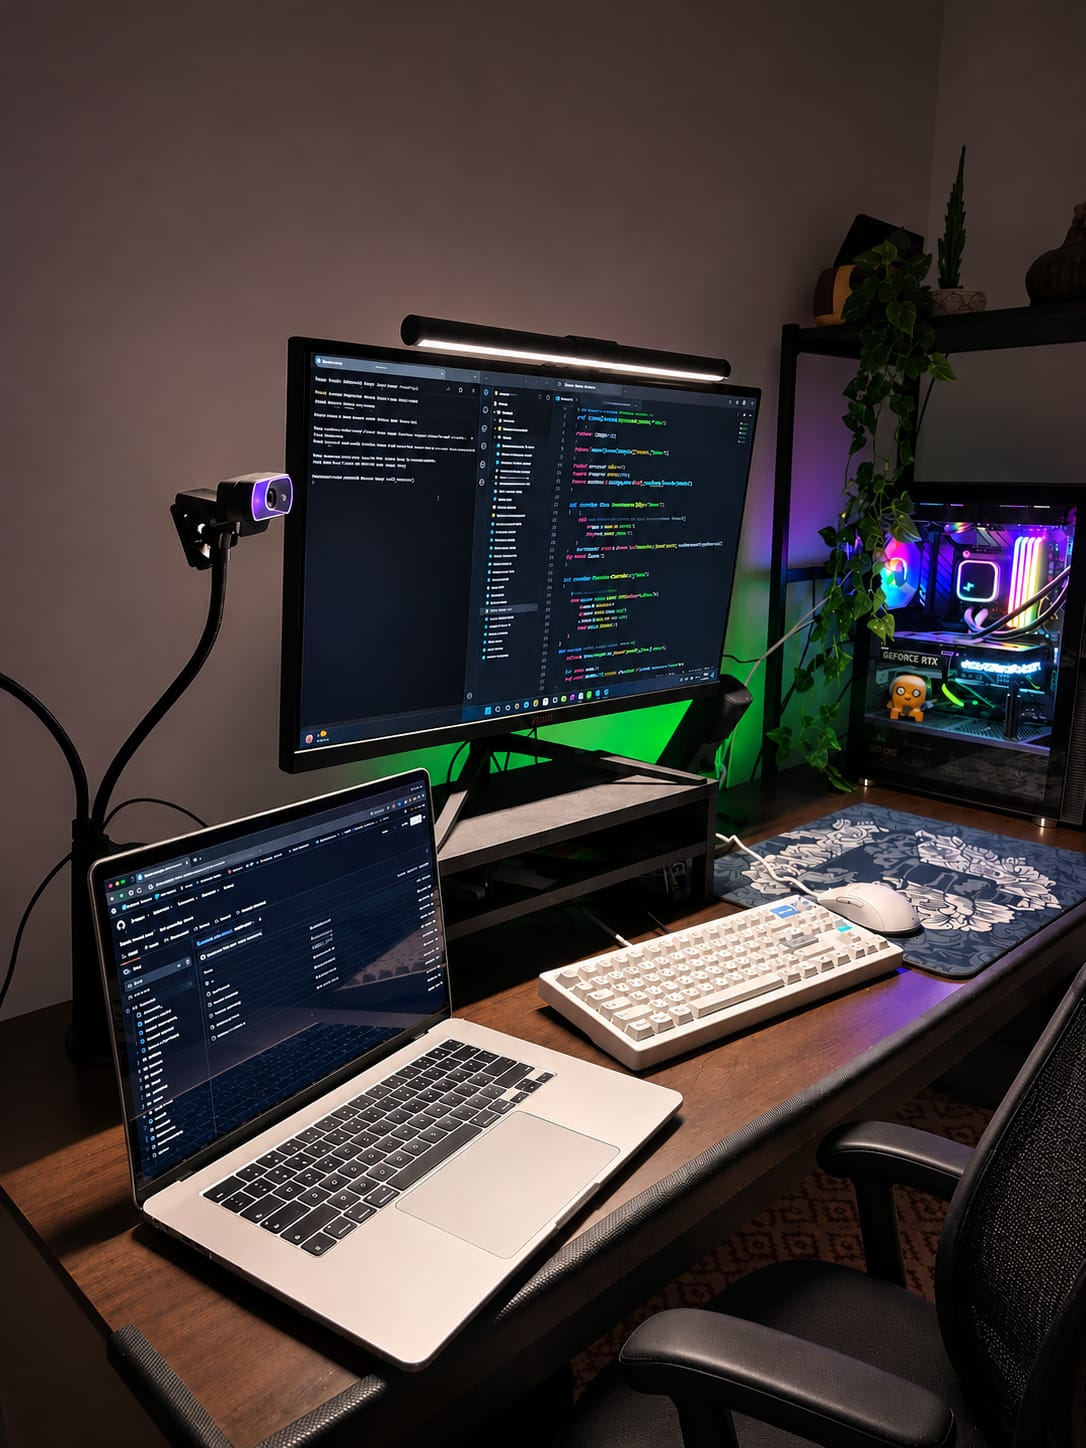
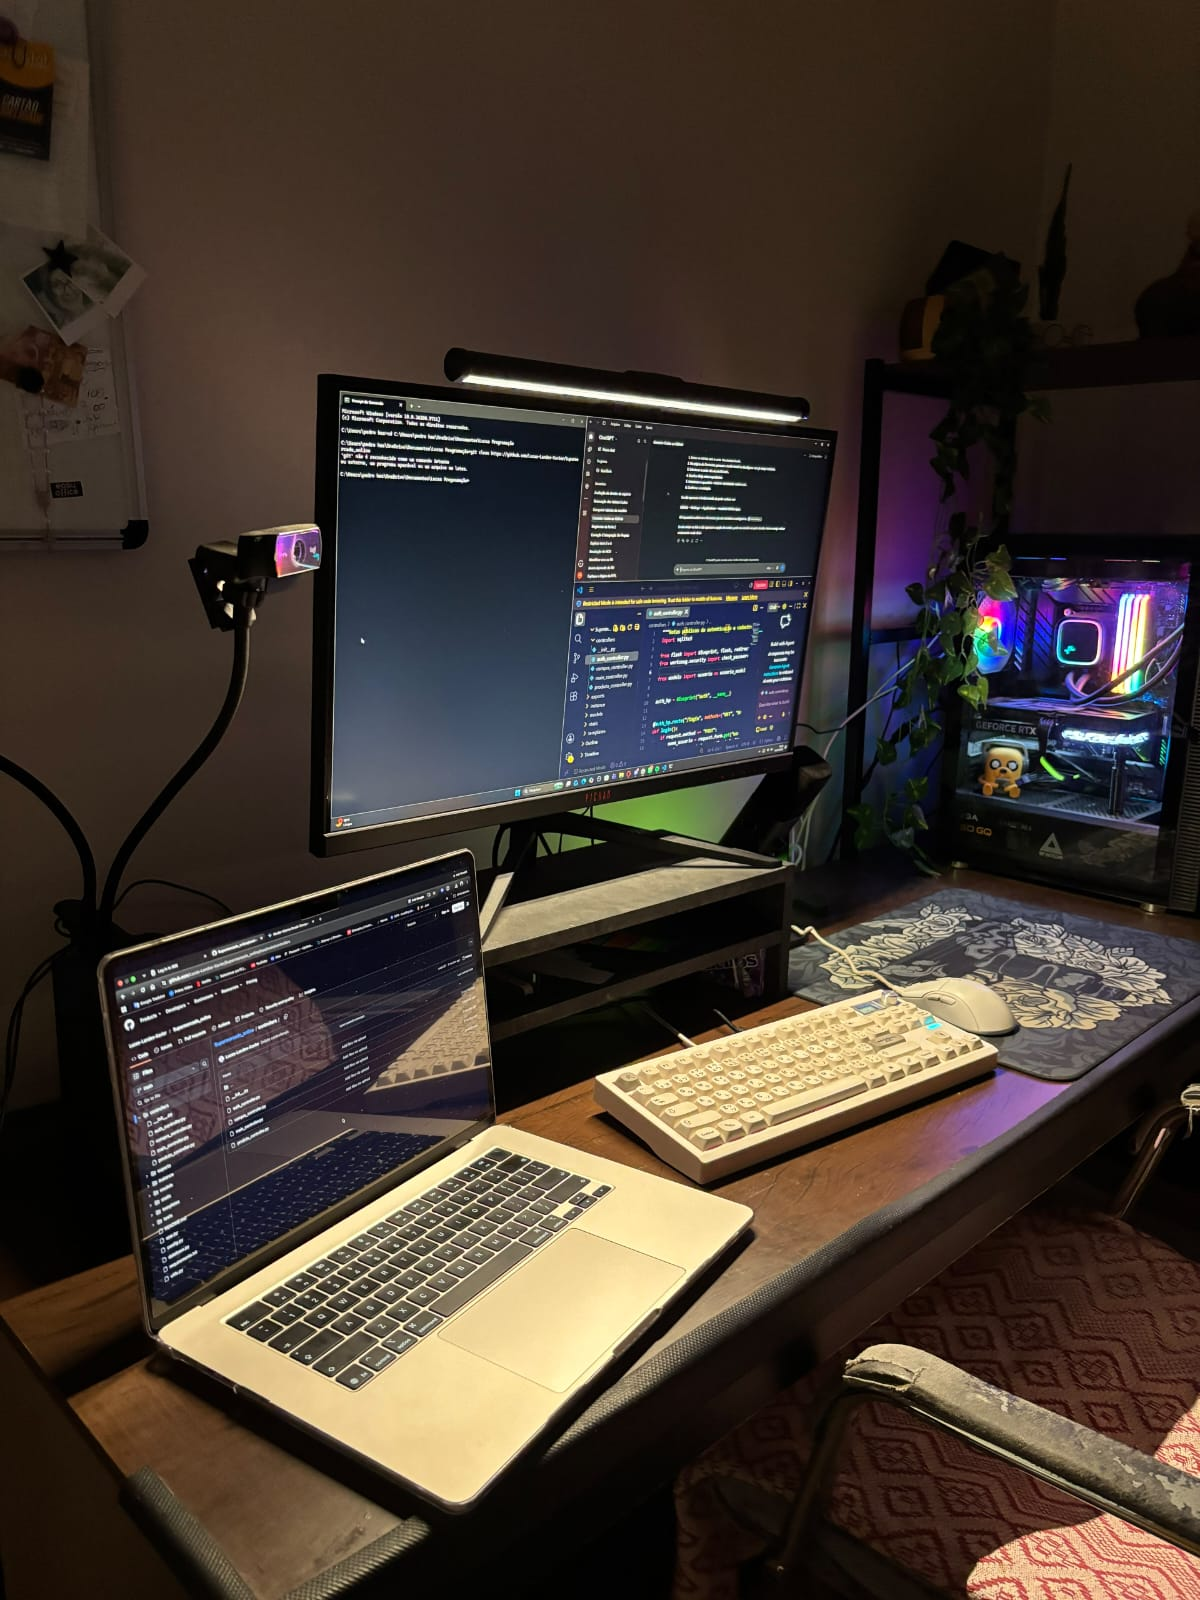
Corrige os nomes e a ordem das fotos do Lucas

diff --git a/servicos/suporte.html b/servicos/suporte.html
@@ -1,4 +1,4 @@
-<!doctype html><html lang="pt-BR"><head><meta charset="utf-8"><meta name="viewport" content="width=device-width,initial-scale=1"><meta name="theme-color" content="#0a0d11"><meta name="description" content="kernTech: soluções de TI para empresas."><title>Suporte técnico empresarial | kernTech</title><link rel="preconnect" href="https://fonts.googleapis.com"><link href="https://fonts.googleapis.com/css2?family=DM+Sans:wght@400;500;600;700&family=Space+Grotesk:wght@500;600;700&display=swap" rel="stylesheet"><link rel="stylesheet" href="../styles.css"><script src="../services.js" defer></script><script src="../script.js" defer></script><link rel="stylesheet" href="../service-demos.css?v=title"><script src="../service-demos.js?v=immersive" defer></script></head><body><header class="header"><div class="container nav"><a class="logo" href="../index.html"><img class="logo-mark" src="../assets/kerntech-logo.svg" alt="" width="38" height="29"><span>kern<span class="logo-accent">Tech</span></span></a><button class="menu-toggle" aria-expanded="false" aria-label="Abrir menu">☰</button><nav class="menu"><a href="../index.html">Início</a><a href="../index.html#servicos">Serviços</a><a href="../index.html#contato">Contato</a></nav><a class="button button-outline nav-cta" href="../index.html#contato">Solicitar orçamento</a></div></header><main><section class="subhero"><div class="container subhero-inner"><div><a class="back" href="../index.html#servicos">← Voltar aos serviços</a><span class="eyebrow">SUPORTE TÉCNICO</span><h1>Suporte técnico empresarial</h1><p class="service-credit">Planejamento por <strong>Lucas</strong></p><p>Atendimento remoto ou presencial para resolver falhas, instalar programas e auxiliar sua equipe no dia a dia.</p><a class="button button-primary" href="../index.html?servico=suporte#contato">Solicitar orçamento ↗</a></div><div class="subhero-photo" style="background-image:url('../assets/Foto-assistencia-IA.jpeg')"></div></div></section>
+<!doctype html><html lang="pt-BR"><head><meta charset="utf-8"><meta name="viewport" content="width=device-width,initial-scale=1"><meta name="theme-color" content="#0a0d11"><meta name="description" content="kernTech: soluções de TI para empresas."><title>Suporte técnico empresarial | kernTech</title><link rel="preconnect" href="https://fonts.googleapis.com"><link href="https://fonts.googleapis.com/css2?family=DM+Sans:wght@400;500;600;700&family=Space+Grotesk:wght@500;600;700&display=swap" rel="stylesheet"><link rel="stylesheet" href="../styles.css"><script src="../services.js" defer></script><script src="../script.js" defer></script><link rel="stylesheet" href="../service-demos.css?v=title"><script src="../service-demos.js?v=immersive" defer></script></head><body><header class="header"><div class="container nav"><a class="logo" href="../index.html"><img class="logo-mark" src="../assets/kerntech-logo.svg" alt="" width="38" height="29"><span>kern<span class="logo-accent">Tech</span></span></a><button class="menu-toggle" aria-expanded="false" aria-label="Abrir menu">☰</button><nav class="menu"><a href="../index.html">Início</a><a href="../index.html#servicos">Serviços</a><a href="../index.html#contato">Contato</a></nav><a class="button button-outline nav-cta" href="../index.html#contato">Solicitar orçamento</a></div></header><main><section class="subhero"><div class="container subhero-inner"><div><a class="back" href="../index.html#servicos">← Voltar aos serviços</a><span class="eyebrow">SUPORTE TÉCNICO</span><h1>Suporte técnico empresarial</h1><p class="service-credit">Planejamento por <strong>Lucas</strong></p><p>Atendimento remoto ou presencial para resolver falhas, instalar programas e auxiliar sua equipe no dia a dia.</p><a class="button button-primary" href="../index.html?servico=suporte#contato">Solicitar orçamento ↗</a></div><div class="subhero-photo" style="background-image:url('../assets/Foto-assistencia-IA.jpeg?v=lucas-2')"></div></div></section>
 <section class="service-demo demo-support" data-step="0" data-scene="support" aria-labelledby="demo-title">
     <div class="container demo-layout">
         <div class="demo-copy">
@@ -10,4 +10,4 @@
         <div class="demo-stage" aria-hidden="true"><div class="demo-ticket"><p>Chamado de suporte · Impressora</p><ol class="demo-steps"><li class="demo-node" aria-current="step">Problema relatado</li><li class="demo-node">Em atendimento</li><li class="demo-node">Resolvido</li></ol></div></div>
     </div>
 </section>
-<section class="section"><div class="container content-cols"><div><span class="eyebrow eyebrow-dark">SOBRE O SERVIÇO</span><h2>Sua equipe tem com quem contar.</h2><p>Atendimento remoto ou presencial para resolver falhas, instalar programas e auxiliar sua equipe no dia a dia.</p><h3>O que inclui</h3><ul class="features"><li>Atendimento remoto e presencial</li><li>Instalação e configuração de programas</li><li>Resolução de problemas recorrentes</li></ul><a href="../index.html?servico=suporte#contato" class="button button-primary">Peça seu orçamento ↗</a></div><div class="photo-pair"><div class="placeholder" style="background-image:url('../assets/Foto-assistencia-Original.jpeg')"></div><span>Fotografia original por Lucas</span></div></div></section><section class="campaign compact"><div class="container campaign-inner"><div><h2>Tecnologia sem complicação.</h2><p>Conte com a kernTech para manter sua operação em dia.</p></div><a class="button button-light" href="../index.html#servicos">Ver outros serviços ↗</a></div></section></main><footer class="footer"><div class="container footer-inner"><a href="../index.html" class="logo"><img class="logo-mark" src="../assets/kerntech-logo.svg" alt="" width="38" height="29">kern<span class="logo-accent">Tech</span></a><span>Projeto acadêmico · 2026</span><a href="../index.html">Página inicial ↑</a></div></footer></body></html>
+<section class="section"><div class="container content-cols"><div><span class="eyebrow eyebrow-dark">SOBRE O SERVIÇO</span><h2>Sua equipe tem com quem contar.</h2><p>Atendimento remoto ou presencial para resolver falhas, instalar programas e auxiliar sua equipe no dia a dia.</p><h3>O que inclui</h3><ul class="features"><li>Atendimento remoto e presencial</li><li>Instalação e configuração de programas</li><li>Resolução de problemas recorrentes</li></ul><a href="../index.html?servico=suporte#contato" class="button button-primary">Peça seu orçamento ↗</a></div><div class="photo-pair"><div class="placeholder" style="background-image:url('../assets/Foto-assistencia-Original.jpeg?v=lucas-2')"></div><span>Fotografia original por Lucas</span></div></div></section><section class="campaign compact"><div class="container campaign-inner"><div><h2>Tecnologia sem complicação.</h2><p>Conte com a kernTech para manter sua operação em dia.</p></div><a class="button button-light" href="../index.html#servicos">Ver outros serviços ↗</a></div></section></main><footer class="footer"><div class="container footer-inner"><a href="../index.html" class="logo"><img class="logo-mark" src="../assets/kerntech-logo.svg" alt="" width="38" height="29">kern<span class="logo-accent">Tech</span></a><span>Projeto acadêmico · 2026</span><a href="../index.html">Página inicial ↑</a></div></footer></body></html>

diff --git a/index.html b/index.html
@@ -12,7 +12,7 @@
         href="https://fonts.googleapis.com/css2?family=DM+Sans:wght@400;500;600;700&family=Space+Grotesk:wght@500;600;700&display=swap"
         rel="stylesheet">
     <link rel="stylesheet" href="styles.css?v=publicidade">
-    <script src="services.js?v=foto-reparo" defer></script>
+    <script src="services.js?v=foto-lucas-2" defer></script>
     <script src="script.js?v=creditos" defer></script>
 </head>
 

diff --git a/services.js b/services.js
@@ -70,7 +70,7 @@ const services=[
       "Resolução de problemas recorrentes"
     ],
     "number": "05",
-    "image": "assets/Foto-assistencia-IA.jpeg"
+    "image": "assets/Foto-assistencia-IA.jpeg?v=lucas-2"
   },
   {
     "id": "instalacao",
